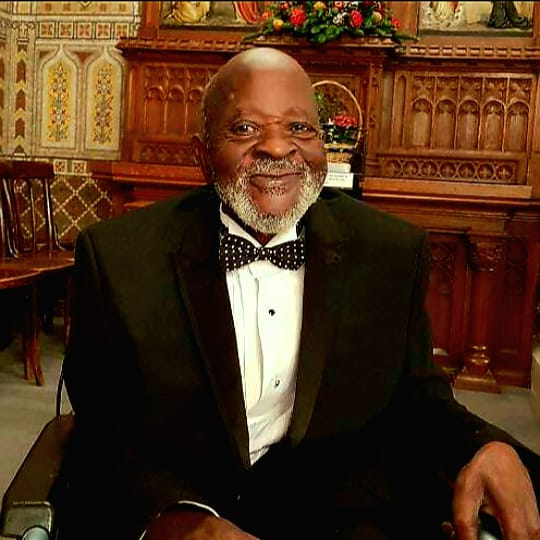
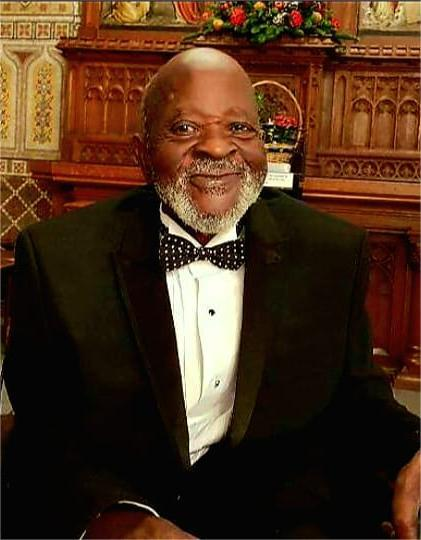
dfd

diff --git a/styles/legacy.css b/styles/legacy.css
@@ -165,8 +165,8 @@ body {
 
 .portrait-frame {
     width: 100%;
-    max-width: 350px;
-    height: 450px;
+    max-width: 450px;
+    height: 550px;
     background: rgba(244, 228, 188, 0.3);
     border-radius: 15px;
     display: flex;
@@ -176,6 +176,14 @@ body {
     box-shadow: 0 10px 30px rgba(0, 0, 0, 0.1);
     border: 3px solid #B8860B;
     margin: 0 auto 2rem;
+}
+
+.portrait-image {
+    width: 90%;
+    height: 80%;
+    object-fit: cover;
+    border-radius: 10px;
+    margin-bottom: 1rem;
 }
 
 .portrait-icon {
@@ -573,6 +581,24 @@ body {
 }
 
 /* Responsive Design */
+
+@media (max-width: 1050px){
+    .biography-content {
+        grid-template-columns: 1fr;
+        gap: 2rem;
+        text-align: center;
+    }
+
+    .bio-text {
+        padding-left: 0;
+    }
+
+    .bio-text h2::after {
+        width: 60px;
+        left: 50%;
+        transform: translateX(-50%);
+    }
+}
 @media (max-width: 768px) {
     .nav-menu {
         position: fixed;
@@ -621,6 +647,16 @@ body {
         padding-left: 0;
     }
 
+    .bio-text h2 {
+        font-size: 2rem;
+    }
+
+    .bio-text h2::after {
+        width: 50px;
+        left: 50%;
+        transform: translateX(-50%);
+    }
+
     .timeline-line {
         left: 20px;
     }
@@ -658,7 +694,7 @@ body {
     }
 
     .portrait-frame {
-        height: 300px;
+        height: 450px;
     }
 
     .timeline-container {

diff --git a/program.html b/program.html
@@ -19,7 +19,7 @@
                 <a href="legacy.html" class="nav-link">Legacy</a>
                 <a href="programs.html" class="nav-link active">Programs</a>
                 <a href="donate.html" class="nav-link">Donate</a>
-                <a href="events.html" class="nav-link">Events</a>
+                <a href="event.html" class="nav-link">Events</a>
                 <a href="contact.html" class="nav-link">Contact</a>
             </div>
             <div class="nav-toggle" id="navToggle">

diff --git a/legacy.html b/legacy.html
@@ -47,7 +47,7 @@
             <div class="biography-content">
                 <div class="portrait-section">
                     <div class="portrait-frame">
-                        <div class="portrait-icon">👨💼</div>
+                        <img src="image/image.jpg" alt="Simeon Babafemi Olaleye" class="portrait-image">
                         <p class="portrait-caption">Simeon Babafemi Olaleye</p>
                     </div>
                     <div class="life-dates">
